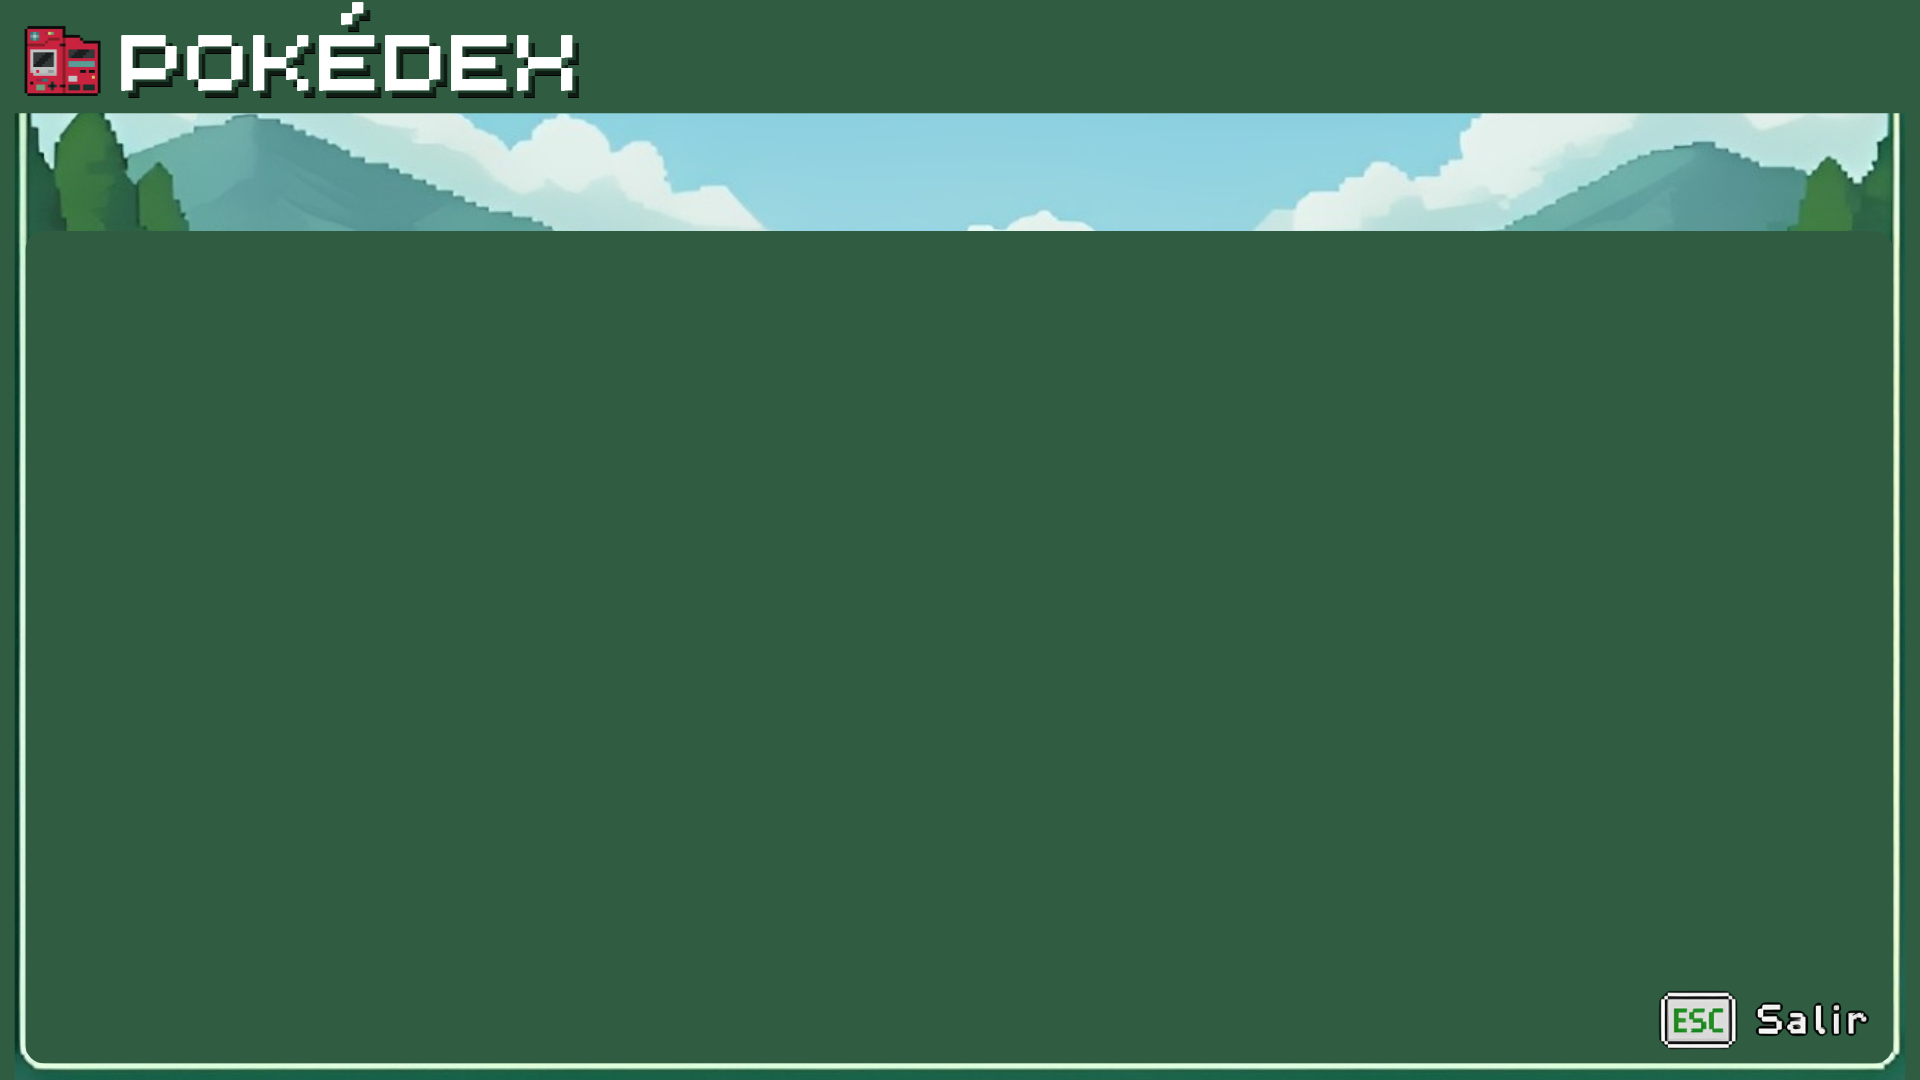
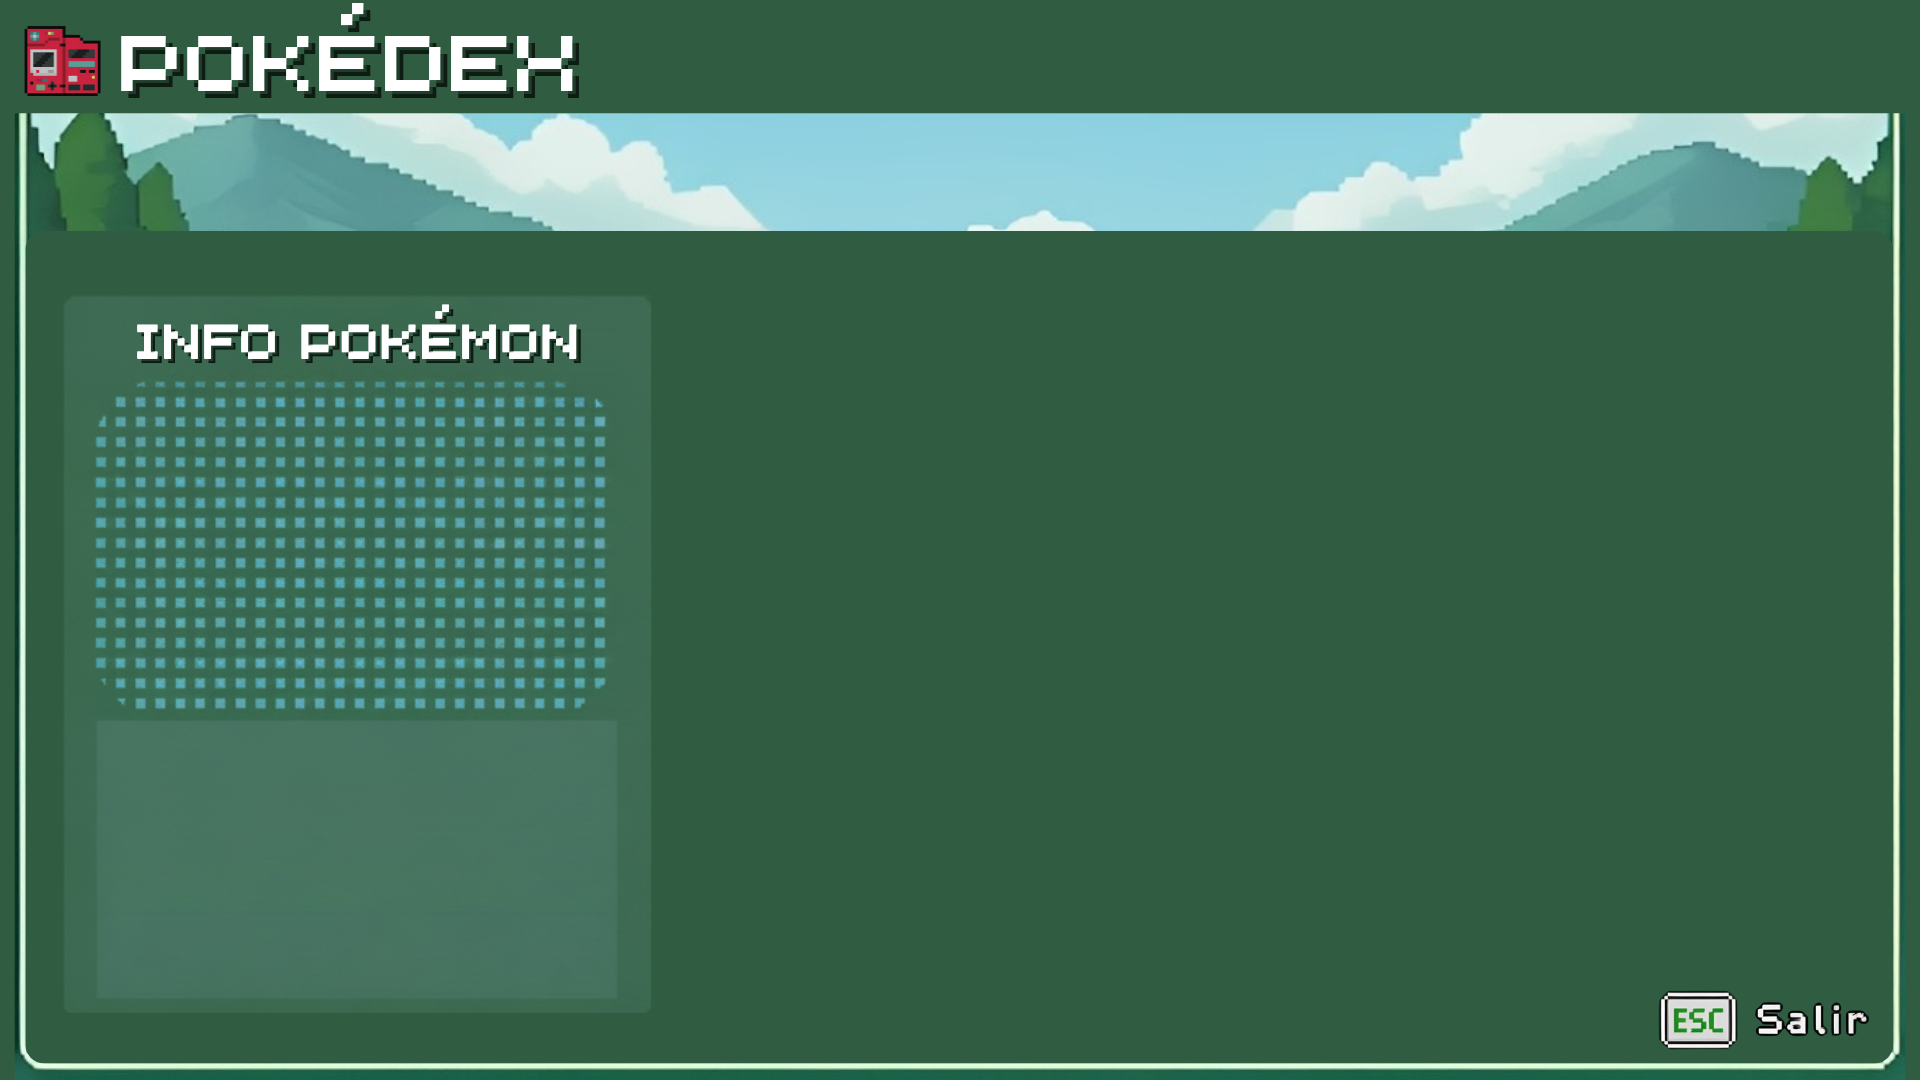
ferxxo 39 pokedex diseño

Changed region(s): [[0.0312, 0.275, 0.3438, 0.9472], [0.1562, 0.0611, 0.2812, 0.0917]]

diff --git a/core/src/main/java/com/mypokemon/game/MochilaScreen.java b/core/src/main/java/com/mypokemon/game/MochilaScreen.java
@@ -46,6 +46,9 @@ public class MochilaScreen extends BaseScreen {
     // New Texture for Green Frame
     private Texture texMarcoVerde;
 
+    // Pokemon Texture Cache
+    private java.util.Map<String, Texture> pokemonTextureCache = new java.util.HashMap<>();
+
     // Helper class for grid items
     // Data Model
     public class ItemData {
@@ -439,12 +442,12 @@ public class MochilaScreen extends BaseScreen {
             return;
 
         int columnas = 3;
-        float size = 120f; // Increased size to 120
+        float size = 150f; // Increased size to 120
         float margen = 15f; // Increased margin slightly
 
         for (int i = 0; i < 6; i++) {
-            float x = 400 + (i % columnas) * (size + margen);
-            float y = 350 - (i / columnas) * (size + margen);
+            float x = 700 + (i % columnas) * (size + margen);
+            float y = 300 - (i / columnas) * (size + margen);
 
             // 1. Dibujar fondo del slot
             if (textureFondoSlot != null) {
@@ -550,16 +553,28 @@ public class MochilaScreen extends BaseScreen {
             List<Pokemon> equipo = explorador.getEquipo();
             if (i < equipo.size()) {
                 Pokemon p = equipo.get(i);
-                // Draw Pokemon Name (since we only have sprites in Pokemon class which are
-                // TextureRegions, and we need Textures or complex drawing here)
-                // For now, drawing name mostly. If sprite is available as Texture we could draw
-                // it.
-                // Using a placeholder color for the pokemon slot or just name
 
-                // Draw small name
-                fontContador.setColor(Color.CYAN);
-                fontContador.getData().setScale(0.7f);
-                fontContador.draw(batch, p.getNombre(), x + 5, y + size - 5);
+                // Draw Pokemon Sprite
+                String pName = p.getNombre();
+                if (!pokemonTextureCache.containsKey(pName)) {
+                    try {
+                        String nameClean = pName.toLowerCase().replace(" h.", "").replace(" jr.", "-jr").replace(" ",
+                                "-");
+                        pokemonTextureCache.put(pName, new Texture(Gdx.files.internal(nameClean + ".png")));
+                    } catch (Exception e) {
+                        Gdx.app.error("MochilaScreen", "Could not load texture for " + pName);
+                    }
+                }
+
+                Texture tex = pokemonTextureCache.get(pName);
+                if (tex != null) {
+                    batch.draw(tex, x + 5, y + 5, size - 10, size - 10);
+                } else {
+                    // Fallback if no texture: Draw small name
+                    fontContador.setColor(Color.CYAN);
+                    fontContador.getData().setScale(0.7f);
+                    fontContador.draw(batch, p.getNombre(), x + 5, y + size - 5);
+                }
 
                 // HP Bar in grid cell
                 batch.setColor(Color.RED);
@@ -747,5 +762,11 @@ public class MochilaScreen extends BaseScreen {
             texLure.dispose();
         if (texMarcoVerde != null)
             texMarcoVerde.dispose();
+
+        for (Texture t : pokemonTextureCache.values()) {
+            if (t != null)
+                t.dispose();
+        }
+        pokemonTextureCache.clear();
     }
 }

diff --git a/core/src/main/java/com/mypokemon/game/PokedexScreen.java b/core/src/main/java/com/mypokemon/game/PokedexScreen.java
@@ -120,19 +120,14 @@ public class PokedexScreen extends BaseScreen {
         // Sin registros text position
         if (capturedNames.isEmpty()) {
             fontText.setColor(Color.LIGHT_GRAY);
-            fontText.draw(game.batch, "Sin registros...", 60, VIRTUAL_HEIGHT - 160);
+            fontText.draw(game.batch, "Sin registros...", 80, VIRTUAL_HEIGHT - 500);
         }
 
         // Info Panel (Left side - Lowered to match background "INFO PKMN" box)
-        float infoX = 55;
-        float infoY = 160;
-        float infoW = 310;
-        float infoH = 260;
-
-        // Draw light background for info area
-        game.batch.setColor(1, 1, 1, 0.15f);
-        game.batch.draw(entryBg, infoX, infoY, infoW, infoH);
-        game.batch.setColor(Color.WHITE);
+        float infoX = 70;
+        float infoY = 50;
+        float infoW = 340;
+        float infoH = 190;
 
         // fontTitle.setColor(Color.YELLOW);
         // fontTitle.getData().setScale(1.8f);
@@ -144,11 +139,29 @@ public class PokedexScreen extends BaseScreen {
             BasePokemonData data = BasePokemonData.get(currentPokemonName);
             EspeciePokemon registro = explorador.getRegistro().getRegistro().get(currentPokemonName);
 
+            // Load/Get Texture for Big Display
+            String pName = currentPokemonName;
+            if (!textureCache.containsKey(pName)) {
+                try {
+                    String nameClean = pName.toLowerCase().replace(" h.", "").replace(" jr.", "-jr").replace(" ", "-");
+                    textureCache.put(pName, new Texture(Gdx.files.internal(nameClean + ".png")));
+                } catch (Exception e) {
+                }
+            }
+            Texture bigTex = textureCache.get(pName);
+            if (bigTex != null) {
+                float bigSize = 300;
+                float bigX = infoX + (infoW - bigSize) / 2;
+                float bigY = infoY + infoH - 25; // Position above the text box
+                game.batch.draw(bigTex, bigX, bigY, bigSize, bigSize);
+            }
+
             fontTitle.setColor(Color.WHITE);
             fontTitle.getData().setScale(1.3f);
             fontTitle.draw(game.batch, currentPokemonName.toUpperCase(), infoX + 20, infoY + infoH - 30);
 
             fontText.setColor(Color.CYAN);
+            fontText.getData().setScale(1.5f);
             fontText.draw(game.batch, "TIPO: " + (data != null ? data.tipo : "???"), infoX + 20, infoY + infoH - 70);
 
             fontText.setColor(Color.ORANGE);
@@ -164,10 +177,10 @@ public class PokedexScreen extends BaseScreen {
         }
 
         // Grid (Right side - Aligned with image boxes)
-        float gridStartX = 470;
-        float gridStartY = VIRTUAL_HEIGHT - 275; // Adjusted to match boxes
-        float boxSize = 108; // Roughly the size of slots in image
-        float spacing = 14;
+        float gridStartX = 520;
+        float gridStartY = VIRTUAL_HEIGHT - 300; // Adjusted to match boxes
+        float boxSize = 100; // Roughly the size of slots in image
+        float spacing = 18;
 
         for (int row = 0; row < GRID_ROWS; row++) {
             for (int col = 0; col < GRID_COLS; col++) {
